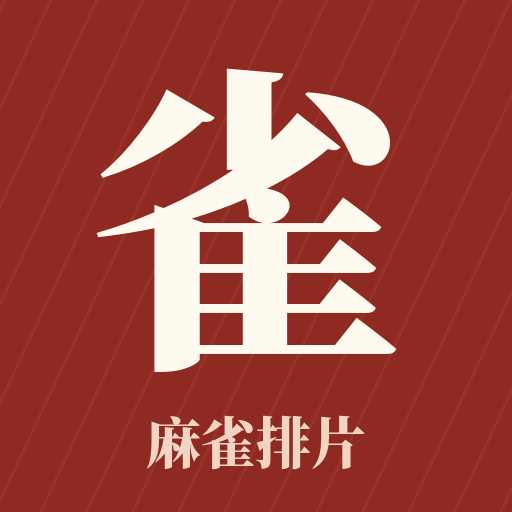
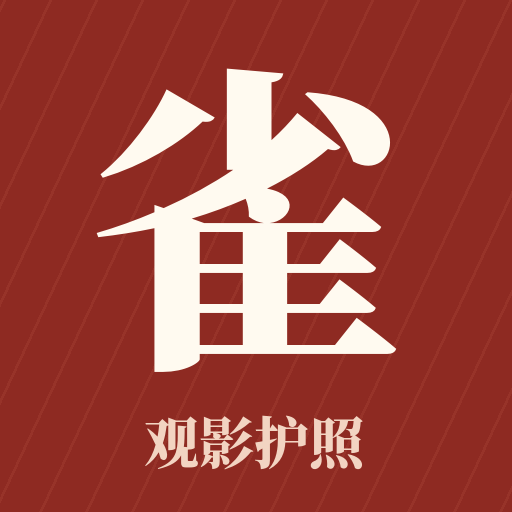
更名为「麻雀观影护照」 (#20)
Claude-Session: https://claude.ai/code/session_01Jw57DzWJ1YLLYTgmvfAaBf

Changed region(s): [[0.2812, 0.8125, 0.7188, 0.9375]]

diff --git a/index.html b/index.html
@@ -15,7 +15,7 @@
 @media print{.ticket-card,.ticket-modal{display:none!important}}
 
 </style>
-<title>麻雀映画&amp;麻雀部落展映排片表</title>
+<title>麻雀观影护照</title>
 <link rel="manifest" href="manifest.webmanifest">
 <link rel="icon" type="image/png" sizes="32x32" href="icons/favicon-32.png">
 <link rel="apple-touch-icon" href="icons/apple-touch-icon.png">
@@ -24,8 +24,8 @@
 <meta name="mobile-web-app-capable" content="yes">
 <meta name="apple-mobile-web-app-capable" content="yes">
 <meta name="apple-mobile-web-app-status-bar-style" content="default">
-<meta name="apple-mobile-web-app-title" content="麻雀排片">
-<meta name="description" content="麻雀映画 & 麻雀部落展映排片表：影展专题、艺术影院与院线放映的排片、片目与个人观影日程。">
+<meta name="apple-mobile-web-app-title" content="麻雀观影护照">
+<meta name="description" content="麻雀观影护照：影展专题、艺术影院与院线放映的排片、片目与个人观影日程。">
 <link rel="preconnect" href="https://fonts.googleapis.com">
 <link rel="stylesheet" href="https://fonts.googleapis.com/css2?family=Noto+Serif+SC:wght@600;900&family=Noto+Sans+SC:wght@400;500;700;900&family=Barlow:wght@500;600&family=IBM+Plex+Mono:wght@400;500;600&display=swap">
 <style>
@@ -1643,7 +1643,7 @@ const logoImg = (base, alt, cls="") => `<img class="lg-l ${cls}" src="brand/${ba
 const DUO = `<span class="duo" aria-hidden="true"><span class="seal">${logoImg("mark-movies","")}</span><span class="seal">${logoImg("mark-tribe","")}</span></span>`;
 const DUO_PRINT = '<span class="duo" aria-hidden="true"><span class="seal seal-print"><img src="brand/mark-movies.png" alt=""></span><span class="seal seal-print"><img src="brand/mark-tribe.png" alt=""></span></span>';
 const lockup = (k) => { const en = k==="movies" ? "Movies" : "Tribe", cn = k==="movies" ? "麻雀映画" : "麻雀部落"; const txt = `<span class="lk-txt"><span class="lk-en">Sparrow<br>${en}</span><span class="lk-cn">${cn}</span></span>`, mk = `<span class="lk-mark">${logoImg("mark-"+k,"")}</span>`; return `<span class="lk lk-${k}" aria-label="${cn} Sparrow ${en}">${k==="movies"?txt+mk:mk+txt}</span>`; };
-const brandBar = () => `<div class="row lk-row sq-row"><span class="sq-logos" role="img" aria-label="麻雀映画 × 麻雀部落"><span class="sq-logo">${logoImg("sparrow-movies-sq","")}</span><span class="lk-x" aria-hidden="true">×</span><span class="sq-logo">${logoImg("sparrow-tribe-sq","")}</span></span><span class="sp"></span><span class="lk-tag">展映<br>排片表</span></div>`;
+const brandBar = () => `<div class="row lk-row sq-row"><span class="sq-logos" role="img" aria-label="麻雀映画 × 麻雀部落"><span class="sq-logo">${logoImg("sparrow-movies-sq","")}</span><span class="lk-x" aria-hidden="true">×</span><span class="sq-logo">${logoImg("sparrow-tribe-sq","")}</span></span><span class="sp"></span><span class="lk-tag">观影<br>护照</span></div>`;
 const presentersHTML = () => `<section class="presenters"><p class="pres-k">制作设计 · PRODUCED &amp; DESIGNED BY</p><div class="pres-row"><span class="pres-sq">${logoImg("sparrow-movies-sq","麻雀映画 Sparrow Movies")}</span><span class="pres-x" aria-hidden="true">×</span><span class="pres-sq">${logoImg("sparrow-tribe-sq","麻雀部落 Sparrow Tribe")}</span></div><p class="pres-d">电影放映与策展</p></section>`;
 
 function ganttHTML(k, rowH, labW, compact, list){
@@ -1701,7 +1701,7 @@ function schedule(){
       <div class="halls">${v.halls.length?v.halls.map(h=>{const hn=SH.filter(x=>x.v===v.id&&x.h===h.id).length;return `<div class="hall"><b>${esc(h.name)}</b><small>${esc(h.note||"")}${h.note?" · ":""}${hn} 场</small></div>`}).join(""):`<div class="hall hall-tbd"><small>影厅信息待补充</small></div>`}</div></div>`;
   }).join("");
   main.innerHTML = `<section class="view gut">
-    <h2 class="sec">展映排片表</h2><p class="sub">${dateSpan(list)} · ${list.length} 场 · ${wide?"点击色块看影片":"点击排片图进入详细排片"}</p>
+    <h2 class="sec">排片表</h2><p class="sub">${dateSpan(list)} · ${list.length} 场 · ${wide?"点击色块看影片":"点击排片图进入详细排片"}</p>
     <h3 class="blockh prog-h">专题 <small>PROGRAMMES</small></h3>${progCardsHTML()}
     ${progChips()}
     ${vchips}
@@ -1882,7 +1882,7 @@ function installPage(){
       ["globe","用 Safari 打开本页","微信里请先点右上角「···」→「在默认浏览器中打开」"],
       ["share","点底部工具栏的「分享」按钮","方框加向上箭头的图标；iPad 在右上角"],
       ["plus","在菜单中选「添加到主屏幕」","没看到就向下滑，或点「编辑操作」把它加进列表"],
-      ["phone","点右上角「添加」","桌面会出现红色的「麻雀排片」图标"]]);
+      ["phone","点右上角「添加」","桌面会出现红色的「观影护照」图标"]]);
   }else if(tab==="android"){
     body=(installPrompt?'<button class="primary-button in-cta" data-install>一键添加到手机桌面</button><p class="in-or">或者按下面的步骤手动添加</p>':'')+stepsHTML([
       ["globe","用 Chrome 或手机自带浏览器打开本页","微信里请先点右上角「···」→「在浏览器打开」"],
@@ -1898,8 +1898,8 @@ function installPage(){
       '<div class="in-note muted"><b>关于小程序</b><p>网页不能直接加入微信的小程序列表。用「浮窗」是在微信里最接近小程序的打开方式。</p></div>';
   }
   main.innerHTML='<section class="view gut in-view"><div class="page-heading"><div><small>ADD TO HOME SCREEN</small><h2 class="sec">添加到手机</h2></div><button class="text-button" data-tab="my">返回我的</button></div>'+
-  (ENV.standalone?'<div class="in-done"><b>✓ 已经在 App 模式中打开</b><p>以后从桌面的「麻雀排片」图标进入即可。</p></div>':
-  '<div class="in-hero"><img src="icons/icon-192.png" alt="" width="64" height="64"><div><b>把「麻雀排片」放到手机桌面</b><p>全屏打开，没有地址栏，看排片就像用 App；个人排片也会一直保存在这台手机上。</p></div></div>')+
+  (ENV.standalone?'<div class="in-done"><b>✓ 已经在 App 模式中打开</b><p>以后从桌面的「观影护照」图标进入即可。</p></div>':
+  '<div class="in-hero"><img src="icons/icon-192.png" alt="" width="64" height="64"><div><b>把「麻雀观影护照」放到手机桌面</b><p>全屏打开，没有地址栏，看排片就像用 App；个人排片也会一直保存在这台手机上。</p></div></div>')+
   '<div class="in-tabs" role="tablist">'+T.map(([k,n])=>'<button role="tab" aria-selected="'+(k===tab)+'" data-itab="'+k+'">'+n+((k==="wechat"&&ENV.wechat)||(k==="ios"&&ENV.ios&&!ENV.wechat)||(k==="android"&&ENV.android&&!ENV.wechat)?'<i>当前</i>':'')+'</button>').join("")+'</div>'+
   '<div class="in-panel">'+body+'</div><p class="local-note">添加到桌面后，排片保存在桌面版自己的存储里，可能和浏览器里的不互通。需要搬过去时，用「导出与分享」里的日程链接导入。</p></section>';
 }
@@ -1910,7 +1910,7 @@ document.addEventListener("click",async e=>{
 function myPage(){const list=selectedRows(),st=planStats(list),next=list[0];
   main.innerHTML='<section class="view gut"><div class="my-hero"><small>MY FESTIVAL</small><h2>我的影展</h2><p>把想看的电影排进自己的日程，再分享给一起看的人。</p>'+statsHTML(st)+(next?'<button class="next-up" data-film="'+next.id+'"><span class="nu-label">第一场</span>'+thumbHTML(F[next.id])+'<span class="nu-body"><b>'+esc(F[next.id].cn)+'</b><small>'+next.d+' '+wk(next.d)+' · '+next.t+' · '+esc(placeOf(next))+'</small></span></button>':'')+'</div>'+
   '<div class="my-menu"><button class="my-entry" data-tab="plan"><span class="me-ic"><svg viewBox="0 0 24 24" fill="none" stroke="currentColor" stroke-width="1.8"><rect x="3" y="5" width="18" height="15" rx="2"/><path d="M3 10h18M8 3v4M16 3v4"/></svg></span><span><b>个人排片</b><small>按天查看日程 · 自动检查时间冲突</small></span><span class="me-go">›</span></button><button class="my-entry" data-tab="export"><span class="me-ic"><svg viewBox="0 0 24 24" fill="none" stroke="currentColor" stroke-width="1.8"><rect x="4" y="4" width="6" height="6"/><rect x="14" y="4" width="6" height="6"/><rect x="4" y="14" width="6" height="6"/><path d="M14 14h2v2h-2zM18 18h2v2h-2zM14 18h2M18 14h2"/></svg></span><span><b>导出与分享</b><small>带二维码的排片长图 · 分享链接 · 日历 · PDF</small></span><span class="me-go">›</span></button><button class="my-entry" data-tab="install"><span class="me-ic">'+IIC.phone+'</span><span><b>添加到手机</b><small>'+(ENV.standalone?'已在 App 模式中打开':'放到桌面像 App 一样看 · 微信里用浮窗')+'</small></span><span class="me-go">›</span></button></div>'+
-  '<p class="local-note">排片保存在当前浏览器。换设备时，用分享链接带走日程。</p>'+presentersHTML()+'<p class="local-note pres-note">麻雀映画与麻雀部落的展映排片表，汇集影展专题、艺术影院与院线放映场次。当前专题：风格万相 · 中外经典影片展（2026.10—2027.01）。</p></section>';}
+  '<p class="local-note">排片保存在当前浏览器。换设备时，用分享链接带走日程。</p>'+presentersHTML()+'<p class="local-note pres-note">麻雀观影护照由麻雀映画与麻雀部落制作，汇集影展专题、艺术影院与院线放映场次。当前专题：风格万相 · 中外经典影片展（2026.10—2027.01）。</p></section>';}
 function planPage(){const list=selectedRows(),st=planStats(list);
   main.innerHTML='<section class="view gut"><div class="page-heading"><div><small>MY PROGRAMME</small><h2 class="sec">个人排片</h2></div><button class="text-button" data-tab="my">返回我的</button></div>'+
   (list.length?statsHTML(st)+'<div class="plan-toolbar"><button class="primary-button" data-tab="export">导出与分享</button><button class="secondary-button" data-tab="schedule">继续选片</button><button class="text-button" data-action="clear-plan">清空排片</button></div>'+(st.clash?'<div class="conflict" role="status"><b>有 '+st.clash+' 组场次时间重叠</b><p>重叠处已在日程中标红，移出其中一场即可解决。</p></div>':'')+'<div class="plan-days">'+planRowsHTML(list,true)+'</div>'
@@ -1933,7 +1933,7 @@ function exportPage(shared){let list;
   (isShared?'<div class="shared-banner"><b>'+st.n+' 场电影 · '+st.days+' 天</b><p>这是一份别人分享给你的观影日程。加入后会和你自己的排片合并。</p><button class="primary-button" data-action="import-plan">全部加入我的排片</button></div>':'')+
   '<div class="share-panel">'+(qr?'<div class="qr-box">'+qr+'</div>':'')+'<div class="share-body"><b>扫码直达排片首页</b><small>二维码打开网站首页，查看完整片目与最新排片。下方链接可分享这份个人日程。</small><div class="link-row"><input id="share-url" readonly value="'+esc(shareURL(list))+'" aria-label="分享链接"><button class="secondary-button" data-action="copy-link">复制链接</button></div>'+(canShare?'<button class="text-button share-sys" data-action="system-share">'+IC.share+' 通过手机分享…</button>':'')+'</div></div>'+
   '<div class="export-grid">'+tile('png',IC.img,'排片长图','含海报与二维码 · PNG','main')+tile('calendar',IC.cal,'导入日历','.ics · 手机/电脑日历')+tile('print',IC.pdf,'打印 / PDF','A4 排版')+'</div>'+
-  '<h3 class="blockh">预览 <small>PREVIEW</small></h3><div class="share-paper"><div class="paper-band"><div class="pb-top"><div><b>麻雀映画 &amp; 麻雀部落</b><span>展映排片表 · SPARROW SCREENINGS</span></div>'+DUO_PRINT+'</div><em>'+(isShared?'观影日程':'我的观影日程')+'</em></div><div class="paper-stats"><span><b>'+st.n+'</b>场</span><span><b>'+st.days+'</b>天</span><span><b>'+st.hm+'</b>银幕时长</span></div><div class="plan-days">'+planRowsHTML(list,false)+'</div><footer>'+(qr?'<div class="paper-qr">'+qr+'</div>':'')+'<div><b>扫码进入排片首页</b><span>麻雀映画 &amp; 麻雀部落 · 展映排片表</span></div></footer></div>'+
+  '<h3 class="blockh">预览 <small>PREVIEW</small></h3><div class="share-paper"><div class="paper-band"><div class="pb-top"><div><b>麻雀观影护照</b><span>SPARROW FILM PASSPORT · 麻雀映画 × 麻雀部落</span></div>'+DUO_PRINT+'</div><em>'+(isShared?'观影日程':'我的观影日程')+'</em></div><div class="paper-stats"><span><b>'+st.n+'</b>场</span><span><b>'+st.days+'</b>天</span><span><b>'+st.hm+'</b>银幕时长</span></div><div class="plan-days">'+planRowsHTML(list,false)+'</div><footer>'+(qr?'<div class="paper-qr">'+qr+'</div>':'')+'<div><b>扫码进入排片首页</b><span>麻雀观影护照 · 麻雀映画 × 麻雀部落</span></div></footer></div>'+
   '<p class="local-note">二维码直达网站首页；分享链接保存此刻的场次选择，之后修改个人排片不会改变已发出的日程。</p></section>';}
 function downloadBlob(blob,filename){const url=URL.createObjectURL(blob),a=document.createElement('a');a.href=url;a.download=filename;document.body.appendChild(a);a.click();a.remove();setTimeout(()=>URL.revokeObjectURL(url),60000);}
 function wrapLines(ctx,text,maxWidth){const out=[];let line='';for(const ch of text){if(ctx.measureText(line+ch).width>maxWidth&&line){out.push(line);line=ch;}else line+=ch;}if(line)out.push(line);return out;}
@@ -1951,9 +1951,9 @@ async function exportPNG(){const list=currentExport;if(!list.length||pngBusy)ret
   c.fillStyle='#efe6d4';c.fillRect(0,0,W,H);
   // header band
   c.fillStyle='#8e2a22';c.fillRect(0,0,W,HEAD);c.fillStyle='rgba(255,255,255,.06)';for(let x=-HEAD;x<W;x+=46){c.beginPath();c.moveTo(x,HEAD);c.lineTo(x+HEAD*.47,0);c.lineTo(x+HEAD*.47+2,0);c.lineTo(x+2,HEAD);c.fill();}
-  c.fillStyle='#fffaf0';c.font='italic 900 68px '+SERIF;c.fillText('麻雀映画 & 麻雀部落',P,140);
+  c.fillStyle='#fffaf0';c.font='italic 900 68px '+SERIF;c.fillText('麻雀观影护照',P,140);
   marks.forEach((im,i)=>{const R=62,cx=W-P-R-(1-i)*(R*2-16),cy=118;c.fillStyle='#fffaf0';c.beginPath();c.arc(cx,cy,R,0,Math.PI*2);c.fill();c.strokeStyle='#8e2a22';c.lineWidth=4;c.stroke();if(im){const s=Math.min((R*1.5)/im.width,(R*1.5)/im.height),w=im.width*s,h=im.height*s;c.drawImage(im,cx-w/2,cy-h/2,w,h);}});
-  c.font='500 22px '+MONO;c.globalAlpha=.85;c.fillText('展映排片表 · SPARROW SCREENINGS',P,196);c.globalAlpha=1;
+  c.font='500 22px '+MONO;c.globalAlpha=.85;c.fillText('SPARROW FILM PASSPORT · 麻雀映画 × 麻雀部落',P,196);c.globalAlpha=1;
   c.fillStyle='#fffaf0';c.fillRect(P,240,56,3);c.font='700 46px '+SANS;c.fillText(location.hash.startsWith('#share=')?'观影日程':'我的观影日程',P,310);
   // stats
   const st=planStats(list);let sx=P;[[st.n,'场放映'],[st.days,'天行程'],[st.hm,'银幕时长']].forEach(([v,l])=>{c.fillStyle='#2b2117';c.font='600 56px '+MONO;c.fillText(String(v),sx,HEAD+92);const w=c.measureText(String(v)).width;c.fillStyle='#7a6a55';c.font='400 24px '+SANS;c.fillText(l,sx+w+10,HEAD+92);sx+=Math.max(250,w+150);});
@@ -1982,10 +1982,10 @@ async function exportPNG(){const list=currentExport;if(!list.length||pngBusy)ret
   const m=qrMatrix(homeURL()),qs=264,qx=P+36,qy=fy+36;
   if(m){c.fillStyle='#fff';rr(c,qx,qy,qs,qs,10);c.fill();const n=m.length,cell=(qs-24)/(n+8);c.fillStyle='#1d1712';for(let r=0;r<n;r++)for(let k=0;k<n;k++)if(m[r][k])c.fillRect(Math.floor(qx+12+(k+4)*cell),Math.floor(qy+12+(r+4)*cell),Math.ceil(cell),Math.ceil(cell));}
   const fx=m?qx+qs+40:P+36;c.fillStyle='#fffaf0';c.font='700 38px '+SANS;c.fillText('扫码进入排片首页',fx,fy+100);c.font='400 24px '+SANS;c.globalAlpha=.8;wrapCanvas(c,'查看完整片目 · 选择想看的电影',fx,fy+150,W-P-36-fx,34);c.globalAlpha=.6;c.font='400 20px '+MONO;c.fillText(location.host+location.pathname,fx,fy+226);c.globalAlpha=1;
-  c.fillStyle='#e0b9a6';c.font='italic 900 30px '+SERIF;c.fillText('麻雀映画 & 麻雀部落',fx,fy+280);c.fillStyle='#fffaf0';c.globalAlpha=.7;c.font='400 20px '+SANS;c.fillText('展映排片表',fx+c.measureText('麻雀映画 & 麻雀部落').width+70,fy+278);c.globalAlpha=1;
+  c.fillStyle='#e0b9a6';c.font='italic 900 30px '+SERIF;c.fillText('麻雀观影护照',fx,fy+280);c.fillStyle='#fffaf0';c.globalAlpha=.7;c.font='400 20px '+SANS;c.fillText('麻雀映画 × 麻雀部落',fx+c.measureText('麻雀观影护照').width+40,fy+278);c.globalAlpha=1;
   const blob=await new Promise(r=>cv.toBlob(r,'image/png'));if(!blob){toast('图片生成失败，请使用打印导出');return;}
   showImageSheet(blob);}finally{pngBusy=false;}}
-function showImageSheet(blob){const url=URL.createObjectURL(blob),file=new File([blob],'麻雀排片_我的观影日程.png',{type:'image/png'});const canFile=!!(navigator.canShare&&navigator.canShare({files:[file]}));
+function showImageSheet(blob){const url=URL.createObjectURL(blob),file=new File([blob],'麻雀观影护照_我的观影日程.png',{type:'image/png'});const canFile=!!(navigator.canShare&&navigator.canShare({files:[file]}));
   let el=document.getElementById('img-sheet');if(el)el.remove();el=document.createElement('div');el.id='img-sheet';el.className='img-sheet';el.setAttribute('role','dialog');el.setAttribute('aria-modal','true');el.setAttribute('aria-label','排片长图');
   el.innerHTML='<div class="is-panel"><div class="is-grab" aria-hidden="true"><i></i></div><div class="is-head"><b>排片长图已生成</b><button class="is-close" aria-label="关闭"><svg viewBox="0 0 24 24" fill="none" stroke="currentColor" stroke-width="2.4"><path d="M6 6l12 12M18 6 6 18"/></svg><span>关闭</span></button></div><div class="is-img"><img src="'+url+'" alt="排片长图预览"></div><p class="is-tip">手机上长按图片可保存到相册 · 下滑或点「关闭」退出</p><div class="is-actions">'+(canFile?'<button class="primary-button" data-is="share">分享图片</button>':'')+'<button class="'+(canFile?'secondary':'primary')+'-button" data-is="save">保存图片</button></div></div>';
   document.body.appendChild(el);document.documentElement.classList.add('sheet-open');
@@ -1994,14 +1994,14 @@ function showImageSheet(blob){const url=URL.createObjectURL(blob),file=new File(
   const onKey=e=>{if(e.key==='Escape')close();};const onPop=()=>close(true);
   document.addEventListener('keydown',onKey);try{history.pushState({sheet:1},'');window.addEventListener('popstate',onPop);}catch(e){}
   el.querySelector('.is-close').focus({preventScroll:true});
-  el.addEventListener('click',async e=>{if(e.target===el||e.target.closest('.is-close'))return close();const b=e.target.closest('[data-is]');if(!b)return;if(b.dataset.is==='save'){downloadBlob(blob,'麻雀排片_我的观影日程.png');toast('图片已保存');}else{try{await navigator.share({files:[file],title:'麻雀排片 · 我的观影日程'});}catch(err){}}});
+  el.addEventListener('click',async e=>{if(e.target===el||e.target.closest('.is-close'))return close();const b=e.target.closest('[data-is]');if(!b)return;if(b.dataset.is==='save'){downloadBlob(blob,'麻雀观影护照_我的观影日程.png');toast('图片已保存');}else{try{await navigator.share({files:[file],title:'麻雀观影护照 · 我的观影日程'});}catch(err){}}});
   let y0=null,dy=0,fromHead=false;
   panel.addEventListener('touchstart',e=>{fromHead=!!e.target.closest('.is-grab,.is-head');if(fromHead||scroller.scrollTop<=0){y0=e.touches[0].clientY;dy=0;}else y0=null;},{passive:true});
   panel.addEventListener('touchmove',e=>{if(y0==null)return;dy=e.touches[0].clientY-y0;if(dy<=0){panel.style.transform='';return;}if(!fromHead&&scroller.scrollTop>0){y0=null;panel.style.transform='';return;}panel.style.transition='none';panel.style.transform='translateY('+dy+'px)';if(fromHead||dy>8)e.preventDefault();},{passive:false});
   panel.addEventListener('touchend',()=>{if(y0==null)return;panel.style.transition='';if(dy>110)close();else panel.style.transform='';y0=null;dy=0;});
 }
-function exportCalendar(){if(!currentExport.length)return;const stamp=d=>d.getFullYear()+String(d.getMonth()+1).padStart(2,'0')+String(d.getDate()).padStart(2,'0')+'T'+String(d.getHours()).padStart(2,'0')+String(d.getMinutes()).padStart(2,'0')+'00';const escapeIcs=s=>String(s).replace(/\\/g,'\\\\').replace(/\n/g,'\\n').replace(/,/g,'\\,').replace(/;/g,'\\;');let lines=['BEGIN:VCALENDAR','VERSION:2.0','PRODID:-//SparrowCinema//Style Kaleidoscope//ZH','CALSCALE:GREGORIAN','X-WR-CALNAME:麻雀排片·我的观影日程','X-WR-TIMEZONE:Asia/Shanghai','BEGIN:VTIMEZONE','TZID:Asia/Shanghai','BEGIN:STANDARD','DTSTART:19700101T000000','TZOFFSETFROM:+0800','TZOFFSETTO:+0800','TZNAME:CST','END:STANDARD','END:VTIMEZONE'];for(const s of currentExport){const start=showDate(s),end=new Date(start.getTime()+F[s.id].min*60000);lines.push('BEGIN:VEVENT','UID:'+encodeURIComponent(keyOf(s))+'@style-kaleidoscope','DTSTAMP:'+new Date().toISOString().replace(/[-:]/g,'').replace(/\.\d+Z/,'Z'),'DTSTART;TZID=Asia/Shanghai:'+stamp(start),'DTEND;TZID=Asia/Shanghai:'+stamp(end),'SUMMARY:'+escapeIcs(F[s.id].cn+' · '+editionOf(F[s.id])),'LOCATION:'+escapeIcs(VN[s.v].name+' · '+hallOf(s).name),'DESCRIPTION:'+escapeIcs(progOf(F[s.id]).name+' · '+progOf(F[s.id]).sub+'\n影片片长 '+F[s.id].min+' 分钟\n麻雀映画 & 麻雀部落展映排片表'),'END:VEVENT');}lines.push('END:VCALENDAR');downloadBlob(new Blob([lines.join('\r\n')+'\r\n'],{type:'text/calendar;charset=utf-8'}),'麻雀排片_我的观影日程.ics');toast('日历文件已生成');}
-document.addEventListener('click',async e=>{const button=e.target.closest('[data-plan],[data-action]');if(!button)return;if(button.dataset.plan){const k=button.dataset.plan;if(!validKeys.has(k))return;if(picked.has(k))picked.delete(k);else picked.add(k);saveSelection();const scroll=window.scrollY;route();window.scrollTo(0,scroll);return;}switch(button.dataset.action){case 'clear-plan':if(confirm('清空当前浏览器保存的个人排片？')){picked.clear();saveSelection();route();}break;case 'png':exportPNG();break;case 'calendar':exportCalendar();break;case 'print':window.print();break;case 'copy-link':{const input=document.getElementById('share-url');if(!input)break;try{await navigator.clipboard.writeText(input.value);toast('分享链接已复制');}catch{input.focus();input.select();toast('请复制已选中的分享链接');}break;}case 'system-share':{try{await navigator.share({title:'麻雀排片 · 观影日程',text:'我的观影日程（'+currentExport.length+' 场）',url:shareURL(currentExport)});}catch(err){}break;}case 'import-plan':currentExport.forEach(s=>picked.add(keyOf(s)));saveSelection();go('plan');break;}});
+function exportCalendar(){if(!currentExport.length)return;const stamp=d=>d.getFullYear()+String(d.getMonth()+1).padStart(2,'0')+String(d.getDate()).padStart(2,'0')+'T'+String(d.getHours()).padStart(2,'0')+String(d.getMinutes()).padStart(2,'0')+'00';const escapeIcs=s=>String(s).replace(/\\/g,'\\\\').replace(/\n/g,'\\n').replace(/,/g,'\\,').replace(/;/g,'\\;');let lines=['BEGIN:VCALENDAR','VERSION:2.0','PRODID:-//SparrowCinema//Style Kaleidoscope//ZH','CALSCALE:GREGORIAN','X-WR-CALNAME:麻雀观影护照','X-WR-TIMEZONE:Asia/Shanghai','BEGIN:VTIMEZONE','TZID:Asia/Shanghai','BEGIN:STANDARD','DTSTART:19700101T000000','TZOFFSETFROM:+0800','TZOFFSETTO:+0800','TZNAME:CST','END:STANDARD','END:VTIMEZONE'];for(const s of currentExport){const start=showDate(s),end=new Date(start.getTime()+F[s.id].min*60000);lines.push('BEGIN:VEVENT','UID:'+encodeURIComponent(keyOf(s))+'@style-kaleidoscope','DTSTAMP:'+new Date().toISOString().replace(/[-:]/g,'').replace(/\.\d+Z/,'Z'),'DTSTART;TZID=Asia/Shanghai:'+stamp(start),'DTEND;TZID=Asia/Shanghai:'+stamp(end),'SUMMARY:'+escapeIcs(F[s.id].cn+' · '+editionOf(F[s.id])),'LOCATION:'+escapeIcs(VN[s.v].name+' · '+hallOf(s).name),'DESCRIPTION:'+escapeIcs(progOf(F[s.id]).name+' · '+progOf(F[s.id]).sub+'\n影片片长 '+F[s.id].min+' 分钟\n麻雀观影护照'),'END:VEVENT');}lines.push('END:VCALENDAR');downloadBlob(new Blob([lines.join('\r\n')+'\r\n'],{type:'text/calendar;charset=utf-8'}),'麻雀观影护照_我的观影日程.ics');toast('日历文件已生成');}
+document.addEventListener('click',async e=>{const button=e.target.closest('[data-plan],[data-action]');if(!button)return;if(button.dataset.plan){const k=button.dataset.plan;if(!validKeys.has(k))return;if(picked.has(k))picked.delete(k);else picked.add(k);saveSelection();const scroll=window.scrollY;route();window.scrollTo(0,scroll);return;}switch(button.dataset.action){case 'clear-plan':if(confirm('清空当前浏览器保存的个人排片？')){picked.clear();saveSelection();route();}break;case 'png':exportPNG();break;case 'calendar':exportCalendar();break;case 'print':window.print();break;case 'copy-link':{const input=document.getElementById('share-url');if(!input)break;try{await navigator.clipboard.writeText(input.value);toast('分享链接已复制');}catch{input.focus();input.select();toast('请复制已选中的分享链接');}break;}case 'system-share':{try{await navigator.share({title:'麻雀观影护照 · 观影日程',text:'我的观影日程（'+currentExport.length+' 场）',url:shareURL(currentExport)});}catch(err){}break;}case 'import-plan':currentExport.forEach(s=>picked.add(keyOf(s)));saveSelection();go('plan');break;}});
 
 let pendingFlash=null, lastList="schedule";
 let activeRoute="", filmReturn="schedule", capturedRoute="";

diff --git a/miniprogram/pages/film/film.js b/miniprogram/pages/film/film.js
@@ -54,7 +54,7 @@ Page({
     const start = Math.floor(U.showDate(s).getTime() / 1000);
     wx.addPhoneCalendar({
       title: `《${f.cn}》${f.version ? ' · ' + f.version : ''}`, startTime: start, endTime: start + f.min * 60,
-      location: idx.venueName(s) + ' · ' + idx.hallName(s), description: '麻雀映画 & 麻雀部落展映排片表', alarm: true, alarmOffset: 3600,
+      location: idx.venueName(s) + ' · ' + idx.hallName(s), description: '麻雀观影护照', alarm: true, alarmOffset: 3600,
       success: () => wx.showToast({ title: '已加入手机日历', icon: 'none' }),
       fail: (err) => { if (!/cancel/.test(err.errMsg || '')) wx.showToast({ title: '未能加入日历', icon: 'none' }); }
     });
@@ -63,6 +63,6 @@ Page({
   openFilm(e) { wx.redirectTo({ url: '/pages/film/film?id=' + e.currentTarget.dataset.id }); },
   openProg() { wx.navigateTo({ url: '/pages/programme/programme?id=' + this.data.f.prog.id }); },
   toSchedule() { wx.switchTab({ url: '/pages/schedule/schedule' }); },
-  onShareAppMessage() { const f = this.data.f || {}; return { title: `《${f.cn}》${f.version ? f.version : ''} · 麻雀排片`, path: '/pages/film/film?id=' + this.id, imageUrl: f.poster || undefined }; },
-  onShareTimeline() { const f = this.data.f || {}; return { title: `《${f.cn}》 · 麻雀映画 & 麻雀部落展映`, query: 'id=' + this.id }; }
+  onShareAppMessage() { const f = this.data.f || {}; return { title: `《${f.cn}》${f.version ? f.version : ''} · 麻雀观影护照`, path: '/pages/film/film?id=' + this.id, imageUrl: f.poster || undefined }; },
+  onShareTimeline() { const f = this.data.f || {}; return { title: `《${f.cn}》 · 麻雀观影护照`, query: 'id=' + this.id }; }
 });

diff --git a/sw.js b/sw.js
@@ -1,5 +1,5 @@
-/* 麻雀排片 service worker：页面走“网络优先”（保证排片总是最新），海报、图标等静态资源走“缓存优先”，离线时也能打开上次看过的内容。 */
-const CACHE = "sk-v6";
+/* 麻雀观影护照 service worker：页面走“网络优先”（保证排片总是最新），海报、图标等静态资源走“缓存优先”，离线时也能打开上次看过的内容。 */
+const CACHE = "sk-v7";
 const CORE = ["./", "./index.html", "./manifest.webmanifest", "./vendor/qrcode.js", "./icons/icon-192.png", "./icons/apple-touch-icon.png", "./brand/sparrow-movies-sq.png", "./brand/sparrow-tribe-sq.png", "./brand/sparrow-movies-sq-dark.png", "./brand/sparrow-tribe-sq-dark.png"];
 
 self.addEventListener("install", e => {

diff --git a/miniprogram/pages/schedule/schedule.js b/miniprogram/pages/schedule/schedule.js
@@ -56,6 +56,6 @@ Page({
     const on = plan.toggle(e.currentTarget.dataset.key);
     wx.showToast({ title: on ? '已加入排片' : '已移出排片', icon: 'none' });
   },
-  onShareAppMessage() { return { title: '麻雀映画 & 麻雀部落 · 展映排片表', path: '/pages/schedule/schedule' }; },
-  onShareTimeline() { return { title: '麻雀映画 & 麻雀部落 · 展映排片表' }; }
+  onShareAppMessage() { return { title: '麻雀观影护照 · 影展排片与观影日程', path: '/pages/schedule/schedule' }; },
+  onShareTimeline() { return { title: '麻雀观影护照 · 影展排片与观影日程' }; }
 });

diff --git a/miniprogram/pages/films/films.js b/miniprogram/pages/films/films.js
@@ -19,5 +19,5 @@ Page({
   setFilt(e) { this.setData({ filt: e.currentTarget.dataset.k }); this.build(); },
   setProg(e) { this.setData({ pf: e.currentTarget.dataset.k }); this.build(); },
   open(e) { wx.navigateTo({ url: '/pages/film/film?id=' + e.currentTarget.dataset.id }); },
-  onShareAppMessage() { return { title: '片目 · 麻雀映画 & 麻雀部落展映排片表', path: '/pages/films/films' }; }
+  onShareAppMessage() { return { title: '片目 · 麻雀观影护照', path: '/pages/films/films' }; }
 });

diff --git a/miniprogram/pages/my/my.js b/miniprogram/pages/my/my.js
@@ -40,6 +40,6 @@ Page({
     if (res.from === 'button' && this.keys && this.keys.length) {
       return { title: `我的观影日程 · ${this.keys.length} 场电影`, path: '/pages/share/share?k=' + encodeURIComponent(this.keys.join('~')) };
     }
-    return { title: '麻雀映画 & 麻雀部落 · 展映排片表', path: '/pages/schedule/schedule' };
+    return { title: '麻雀观影护照 · 影展排片与观影日程', path: '/pages/schedule/schedule' };
   }
 });

diff --git a/CONTRIBUTING.md b/CONTRIBUTING.md
@@ -19,7 +19,7 @@
 - 单页静态应用：index.html，内含页面样式、影片和排片数据、路由与交互脚本。
 - 微信小程序：`project.config.json` + `miniprogram/` + `cloudfunctions/`（AppID wx1f3f065d4885ac25，云环境 cloud1-d9gvudh6vc59007ac），说明见 miniprogram/README.md。网站排片数据变更时，同步更新 `miniprogram/data/data.js` 与 `cloudfunctions/seed/data.json`，或直接改云数据库。小程序场次键格式与网站一致。
 - 海报目录：posters/；发布配置：.github/workflows/pages.yml；PWA：manifest.webmanifest、sw.js（替换同名静态文件时需升级缓存名）、icons/。
-- 网站标题：麻雀映画&麻雀部落展映排片表。风格万相是其中一个影展专题，后续会加入院线电影、艺术影院等排片。
+- 网站与小程序名称：麻雀观影护照（2026-10 起，原名「麻雀映画&麻雀部落展映排片表」），制作设计：麻雀映画 × 麻雀部落。风格万相是其中一个影展专题，后续会加入院线电影、艺术影院等排片。
 - 专题数据：PROGRAMMES 数组（id、名称、类型、时段、封面、简介）；影片用 prog 字段归属专题，未填写时默认 style-kaleidoscope。专题封面放在 programmes/。
 - 主要路由：排片、片目、影片详情、#prog-<专题id>（专题页）、#my（我的）、#plan（个人排片）、#export（导出）、#share=…（分享）、#install（添加到手机）。
 - 个人排片保存在浏览器 localStorage，键为 style-kaleidoscope-plan-v1；没有账号或跨设备自动同步。

diff --git a/miniprogram/README.md b/miniprogram/README.md
@@ -1,6 +1,6 @@
-# 麻雀排片 · 微信小程序
+# 麻雀观影护照 · 微信小程序
 
-麻雀映画 & 麻雀部落展映排片表的小程序版本。与网站共用同一份影片、排片数据结构。
+麻雀观影护照（由麻雀映画与麻雀部落制作）的小程序版本。与网站共用同一份影片、排片数据结构。
 
 - AppID：`wx1f3f065d4885ac25`
 - 云开发环境：`cloud1-d9gvudh6vc59007ac`
